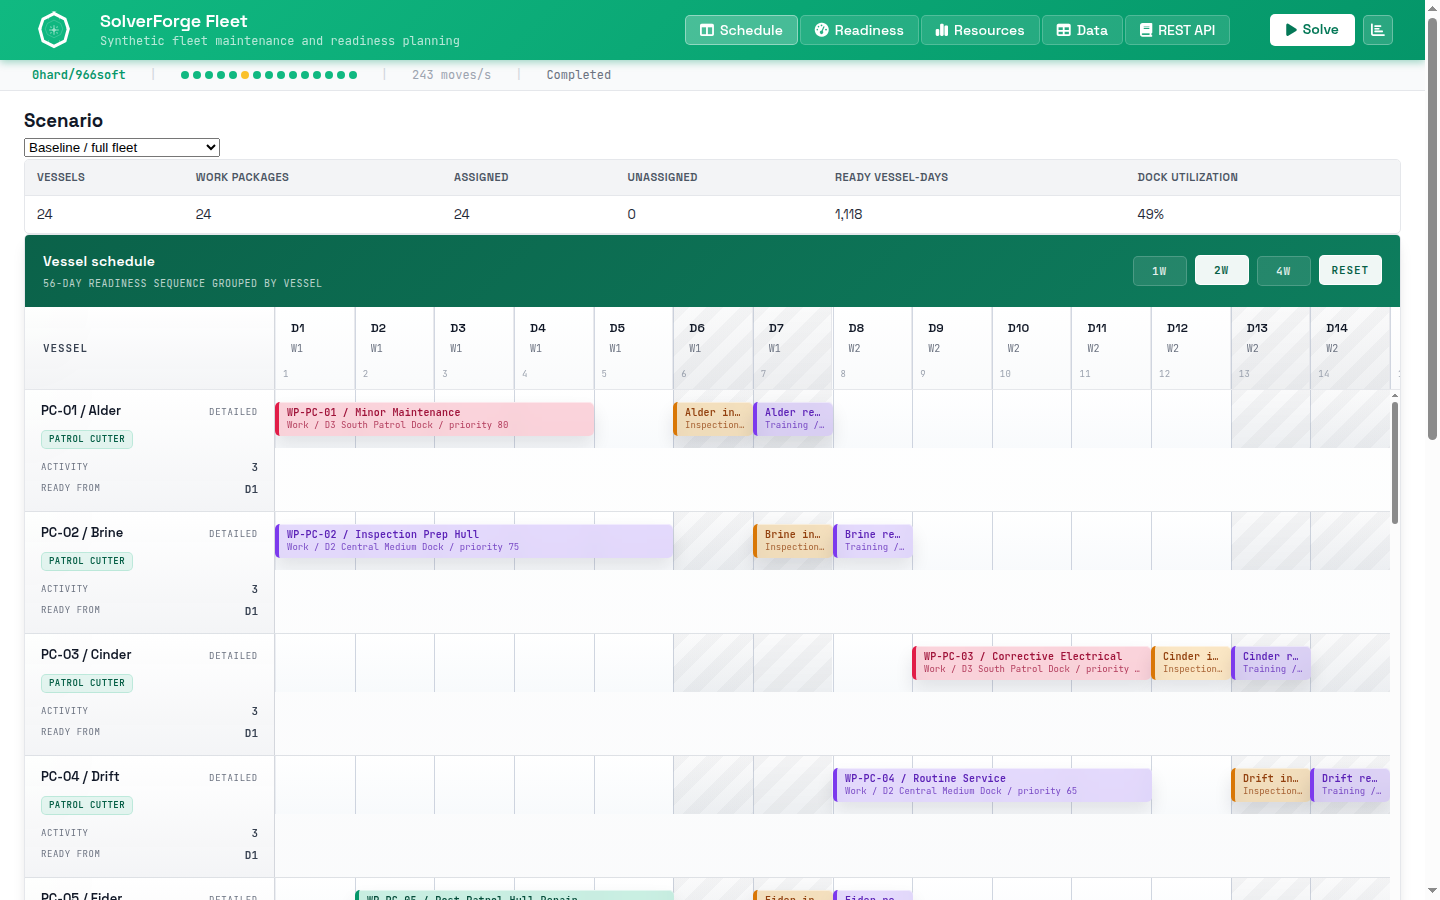
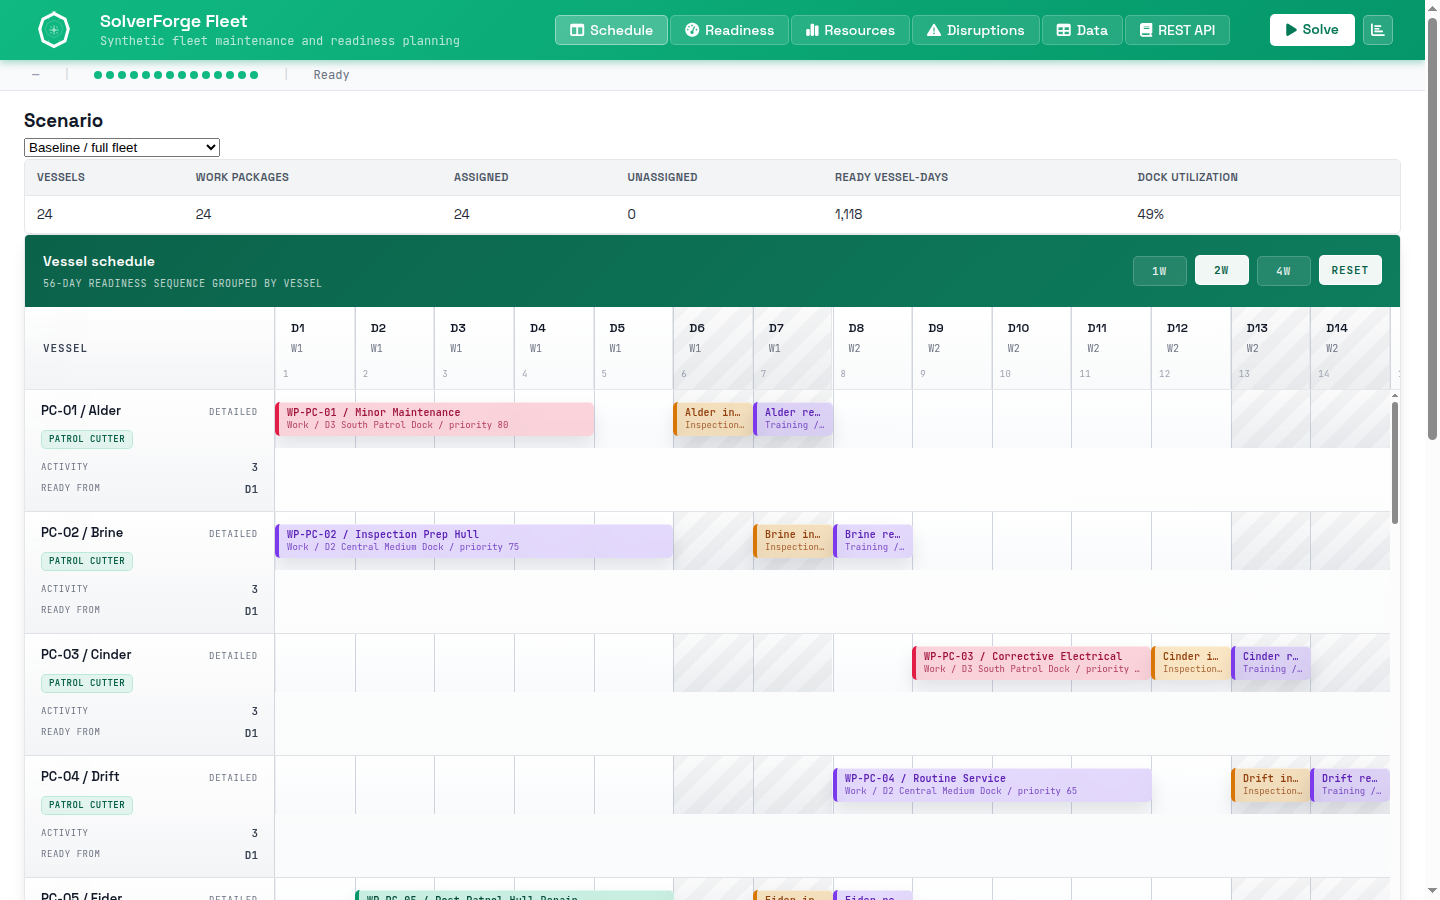
feat(fleet): restore the disruption repair workflow
The UI alignment pass dropped the enterprise app's Disruptions tab, which left the ported repair capability unreachable in the browser. Restore it with stock components: four disruption actions seed a baseline session from the plan on screen, apply the event through the plan-session repair route, read the repair job through the shared backend, render the repaired plan, and show the revision comparison.

Cover the new module in the browser smoke and the project-shape test, and refresh the screenshot to show the current shell.

Changed region(s): [[0.375, 0.0, 0.7188, 0.0933], [0.0312, 0.0622, 0.25, 0.0933], [0.2812, 0.0622, 0.3438, 0.0933]]

diff --git a/uc-fleet/static/fleet/actions.js b/uc-fleet/static/fleet/actions.js
@@ -1,0 +1,164 @@
+(function (global) {
+  'use strict';
+
+  var Fleet = global.Fleet = global.Fleet || {};
+
+  // The four disruptions the app knows how to apply to a plan. Each one maps to
+  // a RepairEvent understood by POST /plan-sessions/{id}/repair.
+  Fleet.disruptions = function () {
+    return [
+      {
+        id: 'technician_drop',
+        label: 'Technician drop',
+        icon: 'fa-user-gear',
+        event: {
+          type: 'technician_capacity_drop',
+          payload: { pool_id: 'ELEC', start_day: 15, end_day: 21, delta: -1 },
+        },
+      },
+      {
+        id: 'dock_outage',
+        label: 'Dock outage',
+        icon: 'fa-warehouse',
+        event: {
+          type: 'dock_outage',
+          payload: { dock_id: 'D2', start_day: 22, end_day: 31 },
+        },
+      },
+      {
+        id: 'delayed_parts',
+        label: 'Delayed parts',
+        icon: 'fa-boxes-stacked',
+        event: {
+          type: 'delayed_delivery',
+          payload: { delivery_id: 'DELIV-01', new_arrival_day: 29 },
+        },
+      },
+      {
+        id: 'raised_floor',
+        label: 'Raised readiness floor',
+        icon: 'fa-chart-line',
+        event: {
+          type: 'policy_override',
+          payload: { value: 20 },
+        },
+      },
+    ];
+  };
+
+  // Renders the disruption controls and the latest repair comparison. The
+  // baseline session is seeded from the plan currently on screen, so a repair
+  // always compares against what the operator is looking at.
+  Fleet.renderDisruptions = function (ctx) {
+    if (!ctx.sections || !ctx.sections.disruption) return;
+    var controls = SF.el('div', {
+      className: 'fleet-disruptions',
+      style: { display: 'flex', flexWrap: 'wrap', gap: '0.5rem' },
+    });
+    Fleet.disruptions().forEach(function (disruption) {
+      controls.appendChild(SF.createButton({
+        text: disruption.label,
+        icon: disruption.icon,
+        variant: 'default',
+        disabled: !!ctx.state.busy,
+        onClick: function () { Fleet.applyDisruption(ctx, disruption); },
+      }));
+    });
+    var status = SF.el('p', null, ctx.state.busy
+      ? 'Seeding a baseline from the current plan, then solving the repaired plan...'
+      : ctx.state.compare
+        ? 'Repaired plan applied. The comparison is against the plan shown before the disruption.'
+        : 'Solve a scenario, then apply a disruption to re-solve and compare the repaired plan.');
+    var section = SF.el('div', { className: 'sf-section' },
+      SF.el('h3', null, 'Disruption repair'),
+      controls,
+      status
+    );
+    Fleet.replace(ctx.sections.disruption, section, Fleet.comparisonSection(ctx));
+  };
+
+  Fleet.comparisonSection = function (ctx) {
+    if (!ctx.state.compare) return null;
+    var diff = ctx.state.compare.diff || {};
+    return SF.el('div', { className: 'sf-section' },
+      SF.el('h3', null, 'Repair comparison'),
+      SF.createTable({
+        columns: ['Measure', 'Value'],
+        rows: [
+          ['Moved assignments', String(diff.movedAssignments || 0)],
+          ['Deferred assignments', String(diff.deferredAssignments || 0)],
+          ['Unchanged assignments', String(diff.unchangedAssignments || 0)],
+          ['Ready vessel-day delta', Fleet.signed(diff.readinessDelta)],
+          ['Approval required', ctx.state.compare.requiresApproval ? 'yes' : 'no'],
+          ['Reason', ctx.state.compare.approvalReason || 'Within approval thresholds'],
+        ],
+      })
+    );
+  };
+
+  Fleet.applyDisruption = async function (ctx, disruption) {
+    if (ctx.state.busy || !ctx.state.plan) {
+      if (!ctx.state.plan) {
+        SF.showToast({ variant: 'warning', title: 'No plan', message: 'Load a scenario first.' });
+      }
+      return;
+    }
+    if (ctx.solver.isRunning() || ctx.solver.getLifecycleState() === 'PAUSED') {
+      SF.showToast({ variant: 'warning', title: 'Solve in progress', message: 'Stop the active solve before repairing.' });
+      return;
+    }
+
+    ctx.state.busy = true;
+    ctx.state.compare = null;
+    Fleet.renderDisruptions(ctx);
+    try {
+      var created = await Fleet.requestJson('/plan-sessions', {
+        method: 'POST',
+        body: {
+          domain: 'fleet_readiness',
+          scenario: { scenario_id: 'current', data: ctx.state.plan },
+        },
+      });
+      var baseline = await Fleet.waitForSessionSnapshot(created.planSessionId);
+      var repair = await Fleet.requestJson('/plan-sessions/' + created.planSessionId + '/repair', {
+        method: 'POST',
+        body: {
+          baseline_revision: baseline.snapshotRevision,
+          event: disruption.event,
+        },
+      });
+      var snapshot = await Fleet.waitForRepairSnapshot(ctx, repair.repairJobId);
+      ctx.renderPlan(snapshot.solution);
+      ctx.state.compare = await Fleet.requestJson(repair.compareUrl);
+    } catch (error) {
+      SF.showError('Repair failed', error.message || String(error));
+    } finally {
+      ctx.state.busy = false;
+      Fleet.renderDisruptions(ctx);
+    }
+  };
+
+  Fleet.waitForSessionSnapshot = async function (sessionId) {
+    for (var attempt = 0; attempt < 900; attempt += 1) {
+      var status = await Fleet.requestJson('/plan-sessions/' + sessionId + '/status');
+      if (status.latestRevision != null) {
+        return Fleet.requestJson('/plan-sessions/' + sessionId + '/snapshots/latest');
+      }
+      await Fleet.sleep(200);
+    }
+    throw new Error('Timed out waiting for the seeded baseline snapshot');
+  };
+
+  Fleet.waitForRepairSnapshot = async function (ctx, jobId) {
+    var terminal = ['COMPLETED', 'CANCELLED', 'FAILED', 'TERMINATED_BY_CONFIG'];
+    for (var attempt = 0; attempt < 900; attempt += 1) {
+      var status = await ctx.backend.getJobStatus(jobId);
+      if (terminal.indexOf(status.lifecycleState) !== -1) {
+        if (status.lifecycleState === 'FAILED') throw new Error('Repair solve failed');
+        return ctx.backend.getSnapshot(jobId);
+      }
+      await Fleet.sleep(200);
+    }
+    throw new Error('Timed out waiting for the repair solve');
+  };
+})(window);

diff --git a/uc-fleet/static/fleet/utils.js b/uc-fleet/static/fleet/utils.js
@@ -37,6 +37,30 @@
   };
 
   Fleet.formatPercent = function (value) {
-    return Math.round(Number(value || 0) * 10) / 10 + '%';
+    return Math.round(Number(value) * 10) / 10 + '%';
+  };
+
+  Fleet.signed = function (value) {
+    var number = Number(value || 0);
+    return number > 0 ? '+' + number : String(number);
+  };
+
+  Fleet.sleep = function (milliseconds) {
+    return new Promise(function (resolve) {
+      global.setTimeout(resolve, milliseconds);
+    });
+  };
+
+  Fleet.requestJson = async function (path, options) {
+    var opts = options || {};
+    var response = await fetch(path, {
+      method: opts.method || 'GET',
+      headers: opts.body ? { 'content-type': 'application/json' } : undefined,
+      body: opts.body ? JSON.stringify(opts.body) : undefined,
+    });
+    if (!response.ok) throw new Error(path + ' returned HTTP ' + response.status);
+    var contentType = response.headers.get('content-type') || '';
+    if (contentType.indexOf('json') === -1) return {};
+    return response.json();
   };
 })(window);

diff --git a/uc-fleet/static/fleet/render.js b/uc-fleet/static/fleet/render.js
@@ -11,6 +11,7 @@
       { id: 'schedule', active: true },
       { id: 'readiness' },
       { id: 'resources' },
+      { id: 'disruptions' },
       { id: 'data' },
       { id: 'api' },
     ].forEach(function (entry) {
@@ -34,6 +35,7 @@
       unassigned: SF.el('div'),
       readiness: SF.el('div'),
       resources: SF.el('div'),
+      disruption: SF.el('div'),
       data: SF.el('div'),
       api: SF.el('div'),
     };
@@ -50,6 +52,7 @@
     });
     panels.readiness.appendChild(ctx.sections.readiness);
     panels.resources.appendChild(ctx.sections.resources);
+    panels.disruptions.appendChild(ctx.sections.disruption);
     panels.data.appendChild(ctx.sections.data);
     panels.api.appendChild(ctx.sections.api);
     return main;
@@ -61,6 +64,7 @@
     Fleet.renderSchedules(ctx);
     Fleet.renderReadiness(ctx);
     Fleet.renderResources(ctx);
+    Fleet.renderDisruptions(ctx);
     Fleet.renderData(ctx);
   };
 

diff --git a/uc-fleet/static/app.js b/uc-fleet/static/app.js
@@ -31,10 +31,12 @@
       plan: null,
       meta: null,
       analysis: null,
+      compare: null,
       catalog: null,
       selectedDemoId: null,
       bootstrapError: null,
       loadingDemo: false,
+      busy: false,
     };
     var ctx = {
       app: app,
@@ -72,6 +74,7 @@
       },
     });
     ctx.solver = solver;
+    ctx.renderPlan = renderPlan;
 
     var header = SF.createHeader({
       logo: '/sf/img/ouroboros.svg',
@@ -81,6 +84,7 @@
         { id: 'schedule', label: 'Schedule', icon: 'fa-table-columns', active: true },
         { id: 'readiness', label: 'Readiness', icon: 'fa-gauge-high' },
         { id: 'resources', label: 'Resources', icon: 'fa-chart-simple' },
+        { id: 'disruptions', label: 'Disruptions', icon: 'fa-triangle-exclamation' },
         { id: 'data', label: 'Data', icon: 'fa-table' },
         { id: 'api', label: 'REST API', icon: 'fa-book' },
       ],

diff --git a/uc-fleet/static/index.html b/uc-fleet/static/index.html
@@ -14,6 +14,7 @@
   <script src="/sf/sf.js"></script>
   <script src="/fleet/utils.js"></script>
   <script src="/fleet/schedule.js"></script>
+  <script src="/fleet/actions.js"></script>
   <script src="/fleet/render.js"></script>
   <script src="/app.js"></script>
 </body>

diff --git a/uc-fleet/tests/project_shape.rs b/uc-fleet/tests/project_shape.rs
@@ -102,7 +102,7 @@ fn browser_shell_uses_solverforge_ui_and_fleet_modules() {
 
     assert!(index.contains("/sf/sf.css"));
     assert!(index.contains("/sf/sf.js"));
-    for module in ["utils", "schedule", "render"] {
+    for module in ["utils", "schedule", "actions", "render"] {
         assert!(
             index.contains(&format!("/fleet/{module}.js")),
             "missing Fleet script {module}"
